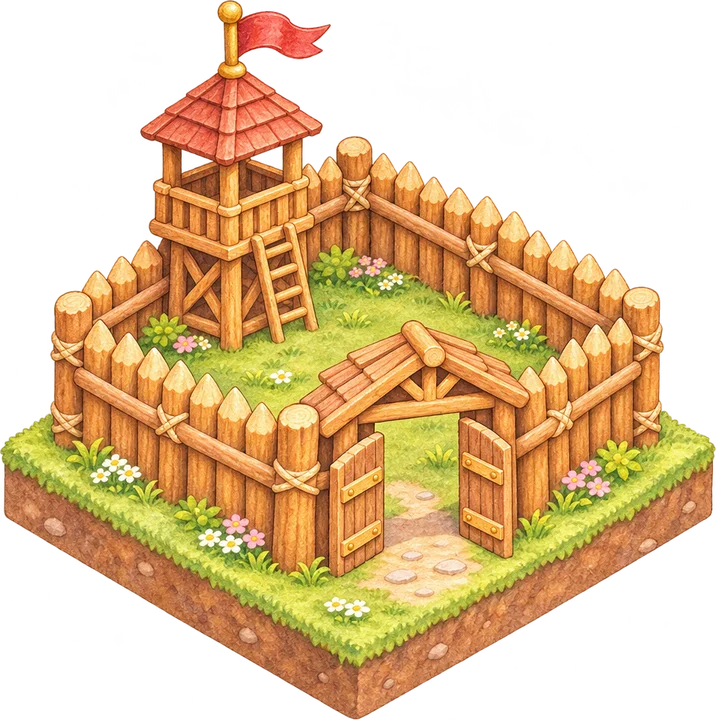
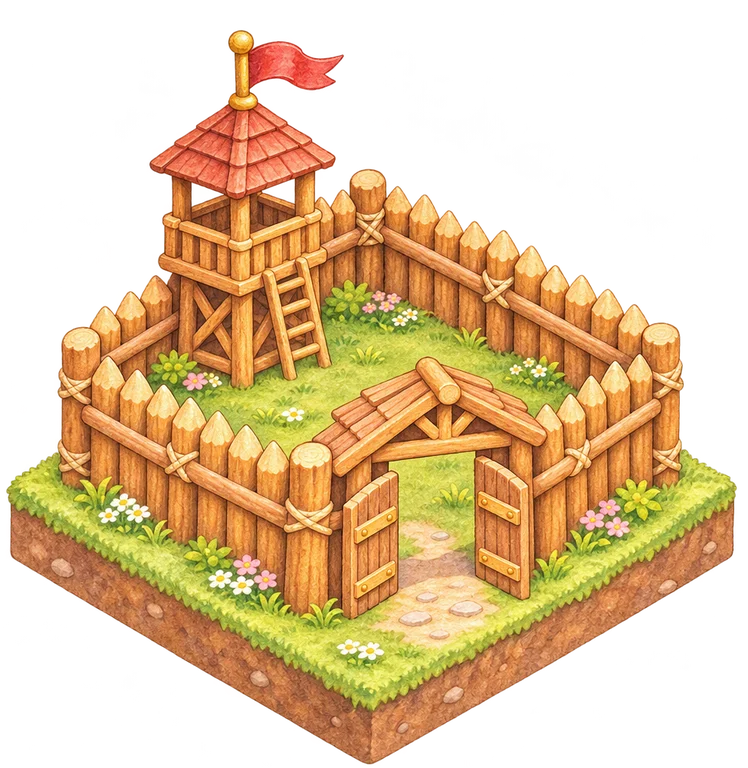
Add files via upload

diff --git a/js/science.js b/js/science.js
@@ -3484,7 +3484,7 @@ window.__res25d = {keyOf, DATA: () => Object.keys(DATA), active: () => INST.size
 
 
 /* =====================================================================
-   v10.2：おしろ STEP1＋STEP2＋STEP3（まちのちず）
+   v10.3：おしろ STEP1〜3 ＋ ぞうちく ★3で 見た目が かわる
    STEP1：おしろトップ 2.5D ・ おふれ ・ おしろコイン
    STEP2：ぞうちく（5つの パーツ × 3だんかい）・ おしろの しんか（木の とりで → 石の おしろ → きらきらの おしろ）
    v10.1 の なおし
@@ -4085,6 +4085,35 @@ const PARTS = [
 ];
 const COST = [20, 40, 70], TOWN_LV3 = 12;
 const STAGE_N = ['', '木の とりで', '石の おしろ', 'きらきらの おしろ'];
+/* v10.3：おしろの 絵（castle_1〜3）と ★3 パーツの さしかえ絵（cp〈すがた〉_〈パーツ〉）
+   w,h＝絵の 大きさ／hot＝ボタンの いち（％）／p＝さしかえ絵を おく いち（px） */
+const CINFO = {"1":{"w":748,"h":768,"hot":{"tower":[17,30],"flag":[80,25],"gate":[59,73],"garden":[12,60],"moat":[90,62]},"p":{"tower":[137,2],"flag":[349,113],"gate":[238,301],"garden":[1,421],"moat":[438,416]}},"2":{"w":747,"h":768,"hot":{"tower":[11,42],"flag":[90,33],"gate":[50,82],"garden":[11,63],"moat":[89,63]},"p":{"tower":[100,23],"flag":[510,115],"gate":[247,283],"garden":[13,393],"moat":[440,439]}},"3":{"w":722,"h":768,"hot":{"tower":[11,42],"flag":[90,34],"gate":[50,84],"garden":[12,66],"moat":[88,66]},"p":{}}};
+const CIMG = {}, CCV = {};
+const ldI = src => CIMG[src] || (CIMG[src] = new Promise((res, rej) => { const im = new Image(); im.onload = () => res(im); im.onerror = () => { delete CIMG[src]; rej(new Error(src)); }; im.src = src; }));
+const lv3Keys = () => PARTS.filter(p => lvOf(p.k) >= 3).map(p => p.k);
+/* いまの おしろの 絵（★3の パーツだけ さしかえ）を canvas で つくる */
+function castleCanvas(st, keys){
+  st = st || castleStage(); keys = st >= 3 ? [] : (keys || lv3Keys());
+  const ck = st + ':' + keys.join(',');
+  if(CCV[ck]) return CCV[ck];
+  return CCV[ck] = (async () => {
+    const I = CINFO[st], cv = document.createElement('canvas'); cv.width = I.w; cv.height = I.h;
+    const x = cv.getContext('2d');
+    x.drawImage(await ldI(`${OI}castle_${st}.webp`), 0, 0, I.w, I.h);
+    for(const p of PARTS){
+      if(!keys.includes(p.k) || !I.p[p.k]) continue;
+      const [px, py] = I.p[p.k];
+      try{
+        const [im, er] = await Promise.all([ldI(`${OI}cp${st}_${p.k}.webp`), ldI(`${OI}cp${st}_${p.k}_e.webp`)]);
+        x.globalCompositeOperation = 'destination-out'; x.drawImage(er, px, py);
+        x.globalCompositeOperation = 'source-over'; x.drawImage(im, px, py);
+      }catch(e){ console.warn('castle part', e); }
+    }
+    x.globalCompositeOperation = 'source-over';
+    return cv;
+  })().catch(e => { delete CCV[ck]; throw e; });
+}
+window.oshiroCastleCanvas = castleCanvas;
 function P(){ const o = O(); o.parts = o.parts || {}; PARTS.forEach(p => { o.parts[p.k] = o.parts[p.k] || 0; }); o.stage = o.stage || 1; return o.parts; }
 const lvOf = k => P()[k] || 0;
 const costOf = k => lvOf(k) >= 3 ? 0 : COST[lvOf(k)];
@@ -4104,19 +4133,32 @@ css2.textContent = `
 .osZc .osPgBg{background-image:url(${OI}zc_bg_l.webp);background-position:center 60%}
 #osr.osP .osZc .osPgBg{background-image:url(${OI}zc_bg_p.webp)}
 .zcCastle{position:absolute;z-index:3}
-.zcCimg{position:absolute;inset:0;width:100%;height:100%;object-fit:contain;filter:drop-shadow(0 10px 10px rgba(60,40,20,.28));transition:transform .5s,opacity .5s}
+.zcImgBox{position:absolute}
+.zcCimg{position:absolute;inset:0;width:100%;height:100%;filter:drop-shadow(0 10px 10px rgba(60,40,20,.28))}
+.zcOld{position:absolute;inset:0;width:100%;height:100%;pointer-events:none;z-index:1;animation:zcFadeOut 1.1s ease-in .15s forwards}
+@keyframes zcFadeOut{to{opacity:0;filter:brightness(1.8)}}
+.zcGlow{position:absolute;z-index:3;width:46%;aspect-ratio:1;transform:translate(-50%,-50%);border-radius:50%;pointer-events:none;background:radial-gradient(circle,rgba(255,250,210,.95),rgba(255,226,120,.55) 40%,rgba(255,226,120,0) 70%);animation:zcGlow2 1.4s ease-out forwards}
+@keyframes zcGlow2{from{transform:translate(-50%,-50%) scale(.2);opacity:1}to{transform:translate(-50%,-50%) scale(1.5);opacity:0}}
+.zcNew{position:absolute;z-index:6;transform:translate(-50%,-100%);white-space:nowrap;height:30px;padding:0 12px;border-radius:999px;background:linear-gradient(180deg,#FFE27A,#F6B93B);border:2px solid #fff;color:#6B4A00;font-weight:900;font-size:14px;display:flex;align-items:center;box-shadow:0 3px 8px rgba(60,40,20,.35);pointer-events:none;animation:zcNew 2.6s ease-out forwards}
+@keyframes zcNew{0%{opacity:0;margin-top:10px}15%,80%{opacity:1;margin-top:0}100%{opacity:0;margin-top:-10px}}
 .zcPt{position:absolute;transform:translate(-50%,-50%);object-fit:contain;filter:drop-shadow(0 4px 4px rgba(60,40,20,.3));pointer-events:none;z-index:2}
 .zcPt.l3{filter:drop-shadow(0 0 8px rgba(255,220,110,.95)) drop-shadow(0 4px 4px rgba(60,40,20,.3))}
 .zcPt.pop{animation:zcPop .6s cubic-bezier(.2,1.6,.4,1)}
 @keyframes zcPop{from{transform:translate(-50%,-50%) scale(.2);opacity:0}}
 #osr.osP .zcSay{font-size:13px;padding:6px 10px;line-height:1.5}
-#osr .zcHot{position:absolute;z-index:4;transform:translate(-50%,-50%);width:44px;height:44px;border-radius:50%;background:rgba(255,255,255,.95);border:3px solid #E7C27A;box-shadow:0 3px 8px rgba(60,40,20,.35);font-weight:900;font-size:13px;color:#A0661A;flex-direction:column;gap:0}
+#osr .zcHot{position:absolute;z-index:4;transform:translate(-50%,-50%);min-width:48px;height:auto;padding:4px 8px 3px;border-radius:14px;background:rgba(255,255,255,.95);border:3px solid #E7C27A;box-shadow:0 3px 8px rgba(60,40,20,.35);font-weight:900;font-size:12px;color:#7A4A1A;flex-direction:column;gap:1px;line-height:1.1}
+#osr .zcHot span{display:block;white-space:nowrap}
+#osr .zcHot i{font-style:normal;font-size:11px;letter-spacing:0;color:#F2A600;white-space:nowrap}
+#osr .zcHot i em{font-style:normal;color:#D9CFC0}
+#osr .zcHot b{position:absolute;right:-8px;top:-8px;width:20px;height:20px;border-radius:50%;background:#36A85C;color:#fff;border:2px solid #fff;display:flex;align-items:center;justify-content:center}
+#osr .zcHot b svg{width:12px;height:12px}
 #osr .zcHot svg{width:22px;height:22px}
-#osr .zcHot.can{background:radial-gradient(circle,#FFF6C8,#FFD24A);border-color:#fff;color:#7A4A00;animation:zcGlow 1.2s ease-in-out infinite}
+#osr .zcHot.can{background:#FFFBEA;border-color:#FFD24A;color:#7A4A00;animation:zcGlow 1.2s ease-in-out infinite}
 #osr .zcHot.sel{outline:4px solid #FF7EA3;outline-offset:2px}
-#osr .zcHot.max{background:linear-gradient(180deg,#FFE58A,#F2B91E);border-color:#fff;color:#fff}
+#osr .zcHot.max{background:linear-gradient(180deg,#FFF3B8,#F6C744);border-color:#fff;color:#6B4A00;opacity:.9}
+#osr .zcHot.max i{color:#C0392B}
 @keyframes zcGlow{50%{box-shadow:0 0 0 8px rgba(255,214,74,.35),0 3px 8px rgba(60,40,20,.35)}}
-.zcHot i{font-style:normal;font-size:10px;letter-spacing:-1px;line-height:1;color:#F2A600}
+
 #osr .zcBear{position:absolute;z-index:5;padding:0;transform-origin:50% 100%}
 #osr .zcBear img{display:block;height:100%;width:auto;filter:drop-shadow(0 8px 8px rgba(60,40,20,.3));pointer-events:none}
 #osr .zcBear.swing{animation:zcSwing .22s ease-in-out 4 alternate}
@@ -4172,31 +4214,40 @@ document.head.appendChild(css2);
 const starStr = lv => '★'.repeat(lv) + `<em>${'★'.repeat(3 - lv)}</em>`;
 function zcHTML(){
   return `<div class="osPgBg"></div><div class="zcStage"></div>
-    <div class="zcCastle"><img class="zcCimg" src="${OI}castle_${castleStage()}.webp" alt=""></div>
+    <div class="zcCastle"><div class="zcImgBox"><canvas class="zcCimg"></canvas></div></div>
     <button class="zcBear" data-o="zbear" aria-label="くまの 大工さん"><img src="${OI}zc_bear.webp" alt=""></button>
     <div class="zcSay"><b>くまの 大工さん</b><span></span></div>
     <div class="zcPanel"><div class="zcCalc"></div><div class="zcCards"></div></div>`;
 }
-function zcRenderCastle(popK){
-  const box = R.zc.querySelector('.zcCastle'); if(!box) return;
-  box.querySelectorAll('.zcPt,.zcHot').forEach(e => e.remove());
-  const w = box.clientWidth, coin = O().coin;
+/* おしろの 絵を かく（fade＝★3に なった とき ふわっと きりかえ） */
+async function zcDrawCastle(fade){
+  const cv = R.zc.querySelector('.zcCimg'); if(!cv) return;
+  const st = castleStage(), I = CINFO[st];
+  let src; try{ src = await castleCanvas(st); }catch(e){ return; }
+  if(!cv.isConnected) return;
+  if(fade && cv.width){
+    const old = document.createElement('canvas'); old.className = 'zcOld'; old.width = cv.width; old.height = cv.height;
+    old.getContext('2d').drawImage(cv, 0, 0); cv.parentNode.appendChild(old); setTimeout(() => old.remove(), 1400);
+  }
+  cv.width = I.w; cv.height = I.h; const x = cv.getContext('2d'); x.clearRect(0, 0, I.w, I.h); x.drawImage(src, 0, 0);
+}
+function zcRenderCastle(){
+  const box = R.zc.querySelector('.zcCastle'), ib = box && box.querySelector('.zcImgBox'); if(!ib) return;
+  const st = castleStage(), I = CINFO[st], bw = box.clientWidth, bh = box.clientHeight;
+  const k = Math.min(bw / I.w, bh / I.h), w = I.w * k, h = I.h * k;
+  Object.assign(ib.style, {width:w + 'px', height:h + 'px', left:(bw - w) / 2 + 'px', top:(bh - h) / 2 + 'px'});
+  ib.querySelectorAll('.zcHot').forEach(e => e.remove());
+  const coin = O().coin, plus = '<svg viewBox="0 0 24 24" aria-hidden="true"><path d="M12 5v14M5 12h14" fill="none" stroke="currentColor" stroke-width="4" stroke-linecap="round"/></svg>';
   PARTS.forEach(p => {
-    const lv = lvOf(p.k), [x, y] = p.pos;
-    if(lv > 0){
-      const im = document.createElement('img'); im.className = 'zcPt l' + lv + (popK === p.k ? ' pop' : ''); im.src = OI + p.ic + '.webp'; im.alt = '';
-      const sz = w * (.17 + .05 * lv); im.style.cssText = `left:${x}%;top:${y}%;width:${sz}px;height:${sz}px`; box.appendChild(im);
-    }
-    const can = lv < 3 && coin >= costOf(p.k);
+    const lv = lvOf(p.k), [x, y] = I.hot[p.k], can = lv < 3 && coin >= costOf(p.k);
     const b = document.createElement('button');
     b.className = 'zcHot' + (can ? ' can' : '') + (lv >= 3 ? ' max' : '') + (ZC.sel === p.k ? ' sel' : '');
-    b.dataset.o = 'zsel:' + p.k; b.setAttribute('aria-label', p.n);
-    b.innerHTML = lv >= 3 ? '★' : can ? '<svg viewBox="0 0 24 24" aria-hidden="true"><path d="M12 5v14M5 12h14" fill="none" stroke="currentColor" stroke-width="3.6" stroke-linecap="round"/></svg>' : `<span>${p.n.slice(0, 2)}</span><i>${'★'.repeat(lv)}</i>`;
-    const oy = y < 50 ? -22 : 22, ox = x < 50 ? -18 : 18;
-    b.style.left = `calc(${x}% + ${ox}px)`; b.style.top = `calc(${y}% + ${oy}px)`;
-    box.appendChild(b);
+    b.dataset.o = 'zsel:' + p.k; b.setAttribute('aria-label', `${p.n} レベル${lv}`);
+    b.innerHTML = `<span>${p.n}</span><i>${'★'.repeat(lv)}<em>${'★'.repeat(3 - lv)}</em></i>${can ? `<b>${plus}</b>` : ''}`;
+    b.style.left = x + '%'; b.style.top = y + '%';
+    ib.appendChild(b);
   });
-  const st = castleStage(), stEl = R.zc.querySelector('.zcStage');
+  const stEl = R.zc.querySelector('.zcStage');
   stEl.innerHTML = `🏰 ${STAGE_N[st]}<i>${st < 3 ? (st === 1 ? 'ぜんぶ ★2 で しんか' : `ぜんぶ ★3 ＋ まち Lv${TOWN_LV3} で しんか`) : 'さいこうの おしろ！'}</i>`;
 }
 function zcRenderPanel(){
@@ -4205,7 +4256,7 @@ function zcRenderPanel(){
     const lv = lvOf(p.k), c = costOf(p.k), can = lv < 3 && coin >= c;
     const btn = lv >= 3 ? `<button class="zcBtn mx" disabled>★ さいだい</button>`
       : `<button class="zcBtn ${can ? '' : 'ng'}" data-o="zbuild:${p.k}"><img src="${OI}ic_coin.webp" alt="">${c}　${lv ? 'レベルアップ' : 'たてる'}</button>`;
-    return `<div class="zcCard ${ZC.sel === p.k ? 'sel' : ''} ${lv >= 3 ? 'max' : ''}" data-k="${p.k}" data-o="zsel:${p.k}"><img src="${OI}${p.ic}.webp" alt=""><b>${p.n}</b><span class="st">${starStr(lv)}</span><small>${lv ? `レベル ${lv} / 3` : 'まだ ないよ'}　${p.d}</small>${btn}</div>`;
+    return `<div class="zcCard ${ZC.sel === p.k ? 'sel' : ''} ${lv >= 3 ? 'max' : ''}" data-k="${p.k}" data-o="zsel:${p.k}"><img src="${OI}${p.ic}.webp" alt=""><b>${p.n}</b><span class="st">${starStr(lv)}</span><small>${lv >= 3 ? '✨ 見た目が かわったよ！' : lv === 2 ? 'つぎの ★3で 見た目が かわる！' : lv ? `レベル ${lv} / 3　${p.d}` : `まだ ないよ　${p.d}`}</small>${btn}</div>`;
   }).join('');
   const box = R.zc.querySelector('.zcCards'), sl = box.scrollLeft, stp = box.scrollTop;
   box.innerHTML = cards; box.scrollLeft = sl; box.scrollTop = stp;
@@ -4216,7 +4267,7 @@ function zcCalc(){
   const coin = O().coin, lv = lvOf(p.k), c = costOf(p.k);
   if(lv >= 3){ el.innerHTML = `${p.n}は さいだい レベル！<small>${castleStage() < 3 && PARTS.every(x => lvOf(x.k) >= 3) ? `まちを Lv${TOWN_LV3} に すると きらきらの おしろに なるよ（いま Lv${townLv()}）` : 'ほかの パーツも そだてよう'}</small>`; return; }
   el.innerHTML = coin >= c
-    ? `いまの コイン <b>${coin}</b> − ひつよう <b>${c}</b> ＝ のこり <b>${coin - c}</b><small>${p.n}を ${lv ? `レベル${lv + 1}に` : 'たてる'} と こうなるよ</small>`
+    ? `いまの コイン <b>${coin}</b> − ひつよう <b>${c}</b> ＝ のこり <b>${coin - c}</b><small>${lv === 2 ? `${p.n}を ★3に すると 見た目が かわるよ！` : `${p.n}を ${lv ? `レベル${lv + 1}に` : 'たてる'} と こうなるよ`}</small>`
     : `いまの コイン <b>${coin}</b> − ひつよう <b>${c}</b> … <span class="ng">あと <b>${c - coin}</b> たりない</span><small>おふれを たっせいして コインを あつめよう</small>`;
 }
 function zcSay(t){ const s = R.zc.querySelector('.zcSay'); if(!s) return; s.querySelector('span').textContent = t; s.classList.remove('pop'); void s.offsetWidth; s.classList.add('pop'); }
@@ -4260,39 +4311,51 @@ function openZc(){
   const first = PARTS.find(p => lvOf(p.k) < 3 && O().coin >= costOf(p.k)) || PARTS.find(p => lvOf(p.k) < 3) || PARTS[0];
   ZC.sel = first.k; zcPlace(); zcRenderPanel();
   zcSay(canBuild() ? 'コインが あるな！ ひかってる ところを たてよう！' : 'コインが たまったら また きてくれ。おふれで コインが もらえるぞ！');
-  const im = R.zc.querySelector('.zcCimg'); if(im) im.onload = () => zcRenderCastle();
+  zcDrawCastle(false);
 }
-function zcFx(k){
-  const box = R.zc.querySelector('.zcCastle'), p = PARTS.find(x => x.k === k); if(!box || !p) return;
-  for(let i = 0; i < 6; i++){ const e = document.createElement('i'); e.className = 'zcPuff'; e.style.cssText = `left:${p.pos[0]}%;top:${p.pos[1]}%;--dx:${(Math.random() - .5) * 90}px;--dy:${-20 - Math.random() * 60}px;animation-delay:${i * .06}s`; box.appendChild(e); setTimeout(() => e.remove(), 1300); }
-  setTimeout(() => { for(let i = 0; i < 8; i++){ const e = document.createElement('i'); e.className = 'zcStar'; e.textContent = '✦'; const a = i / 8 * TAU; e.style.cssText = `left:${p.pos[0]}%;top:${p.pos[1]}%;--dx:${Math.cos(a) * 70}px;--dy:${Math.sin(a) * 70}px`; box.appendChild(e); setTimeout(() => e.remove(), 1100); } }, 700);
+function zcFx(k, big){
+  const box = R.zc.querySelector('.zcImgBox'), I = CINFO[castleStage()]; if(!box || !I.hot[k]) return;
+  const [x, y] = I.hot[k];
+  for(let i = 0; i < 6; i++){ const e = document.createElement('i'); e.className = 'zcPuff'; e.style.cssText = `left:${x}%;top:${y}%;--dx:${(Math.random() - .5) * 90}px;--dy:${-20 - Math.random() * 60}px;animation-delay:${i * .06}s`; box.appendChild(e); setTimeout(() => e.remove(), 1300); }
+  setTimeout(() => { const n = big ? 14 : 8; for(let i = 0; i < n; i++){ const e = document.createElement('i'); e.className = 'zcStar'; e.textContent = '✦'; const a = i / n * TAU, r = big ? 110 : 70; e.style.cssText = `left:${x}%;top:${y}%;--dx:${Math.cos(a) * r}px;--dy:${Math.sin(a) * r}px`; box.appendChild(e); setTimeout(() => e.remove(), 1100); } }, 700);
+}
+function zcLook(k){
+  const box = R.zc.querySelector('.zcImgBox'), I = CINFO[castleStage()]; if(!box || !I.hot[k]) return;
+  const [x, y] = I.hot[k], g = document.createElement('i'); g.className = 'zcGlow'; g.style.left = x + '%'; g.style.top = y + '%'; box.appendChild(g); setTimeout(() => g.remove(), 1500);
+  const t = document.createElement('i'); t.className = 'zcNew'; t.textContent = '✨ 見た目が かわった！'; t.style.left = x + '%'; t.style.top = (y - 6) + '%'; box.appendChild(t); setTimeout(() => t.remove(), 2700);
 }
 function zcBuild(k, btn){
   if(ZC.busy) return;
   const p = PARTS.find(x => x.k === k), o = O(), lv = lvOf(k), c = costOf(k); if(!p || lv >= 3) return;
   ZC.sel = k;
   if(o.coin < c){ zcSelect(k); try{ sound('ng'); }catch(e){} zcSay(`コインが あと ${c - o.coin}まい たりないぞ。おふれを がんばろう！`); return; }
-  ZC.busy = true; const before = castleStage();
+  ZC.busy = true; const before = castleStage(), preKeys = lv3Keys();
   addCoin(-c, `ぞうちく：${p.n} レベル${lv + 1}`);
   P()[k] = lv + 1; persist();
   const b = R.zc.querySelector('.zcBear'); b.classList.remove('swing'); void b.offsetWidth; b.classList.add('swing');
   zcSay('トントン カンカン……！'); try{ sound('tap'); setTimeout(() => sound('tap'), 220); setTimeout(() => sound('tap'), 440); }catch(e){}
-  zcFx(k);
+  const look = lv + 1 >= 3;
+  zcFx(k, look);
   setTimeout(() => {
     try{ sound('fan'); }catch(e){}
-    zcRenderCastle(k); zcRenderPanel(); refresh();
-    zcSay(lv + 1 >= 3 ? `${p.n}が さいこうに なったぞ！ ✨` : `${p.n}が ${lv ? `レベル${lv + 1}に なった` : 'できあがった'}ぞ！`);
-    const after = castleStage(); ZC.busy = false;
-    if(after > before){ O().stage = after; persist(); evolve(before, after); }
+    const after = castleStage();
+    if(look && after === before){ zcDrawCastle(true); zcLook(k); try{ confetti(1200); }catch(e){} }
+    zcRenderCastle(); zcRenderPanel(); refresh();
+    zcSay(look ? `${p.n}が ★3！ 見た目が りっぱに かわったぞ！ ✨` : `${p.n}が ${lv ? `★${lv + 1}に なった` : 'できあがった'}ぞ！ ${lv + 1 === 2 ? 'あと ひとつで 見た目が かわるぞ' : ''}`);
+    ZC.busy = false;
+    if(after > before){ O().stage = after; persist(); evolve(before, after, preKeys); }
   }, 900);
 }
-function evolve(a, b){
+async function evolve(a, b, preKeys){
   const ov = document.createElement('div'); ov.className = 'zcEvo';
-  ov.innerHTML = `<i class="ray"></i><div class="ci"><img class="old" src="${OI}castle_${a}.webp" alt=""><img class="nw" src="${OI}castle_${b}.webp" alt=""></div>
+  let sa = `${OI}castle_${a}.webp`, sb = `${OI}castle_${b}.webp`;
+  try{ sa = (await castleCanvas(a, preKeys)).toDataURL(); }catch(e){}
+  try{ sb = (await castleCanvas(b)).toDataURL(); }catch(e){}
+  ov.innerHTML = `<i class="ray"></i><div class="ci"><img class="old" src="${sa}" alt=""><img class="nw" src="${sb}" alt=""></div>
     <h2>おしろが しんかした！</h2><p>${STAGE_N[a]} → <b>${STAGE_N[b]}</b><br>${b === 3 ? 'まちで いちばん すてきな おしろだよ！' : 'つぎは ぜんぶ ★3 を めざそう！'}</p><button class="ok">やったー！</button>`;
   R.el.appendChild(ov);
   try{ sound('fan'); setTimeout(() => { sound('fan'); confetti(2600); }, 1300); }catch(e){}
-  ov.querySelector('.ok').addEventListener('click', e => { e.stopPropagation(); ov.remove(); const im = R.zc.querySelector('.zcCimg'); if(im){ im.src = OI + `castle_${b}.webp`; } zcRenderCastle(); });
+  ov.querySelector('.ok').addEventListener('click', e => { e.stopPropagation(); ov.remove(); zcDrawCastle(false); zcRenderCastle(); });
 }
 
 /* =====================================================================
@@ -4396,7 +4459,14 @@ function mpData(){
   return {cols, rows, cells, cov, objs, castle};
 }
 function mpImg(o){
-  const key = o.id === 'castle' ? 'castle_' + castleStage() : o.it.art || '';
+  if(o.id === 'castle'){
+    const st = castleStage(), key = 'castle_' + st + ':' + (st >= 3 ? '' : lv3Keys().join(','));
+    if(MP.img[key]) return MP.img[key];
+    const rec = MP.img[key] = {im:null, ok:false, err:false, emo:'🏰'};
+    castleCanvas(st).then(cv => { rec.im = cv; rec.ok = true; mpReq(); }).catch(() => { rec.err = true; mpReq(); });
+    return rec;
+  }
+  const key = o.it.art || '';
   if(MP.img[key]) return MP.img[key];
   const src = o.id === 'castle' ? `${OI}castle_${castleStage()}.webp` : (o.it.img || (typeof artSrc === 'function' ? artSrc(o.it.art) : ''));
   const rec = {im:null, ok:false, err:!src, emo:o.it.emoji || '🏠'};
@@ -4461,7 +4531,7 @@ function tuft(c, x, y, r){
 function spriteBox(o){
   const im = mpImg(o), cxw = isoX(o.x + o.w / 2, o.y + o.h / 2), cyw = isoY(o.x + o.w / 2, o.y + o.h / 2);
   let fw = o.kind === 'castle' ? TW * 1.85 : o.kind === 'big' ? (o.w === o.h ? TW * 1.6 : TW * 1.3) : o.kind === 'conn' ? TW * 1.08 : o.kind === 'deco' ? TW * .62 : TW * .92;
-  const ar = im.ok && im.im.naturalWidth ? im.im.naturalHeight / im.im.naturalWidth : 1;
+  const iw = im.ok ? (im.im.naturalWidth || im.im.width) : 0, ar = iw ? (im.im.naturalHeight || im.im.height) / iw : 1;
   const fh = fw * ar, ay = cyw + (o.kind === 'castle' ? TH * .95 : fw / 4.2);
   return {x:cxw - fw / 2, y:ay - fh, w:fw, h:fh, cx:cxw, ay, im};
 }
